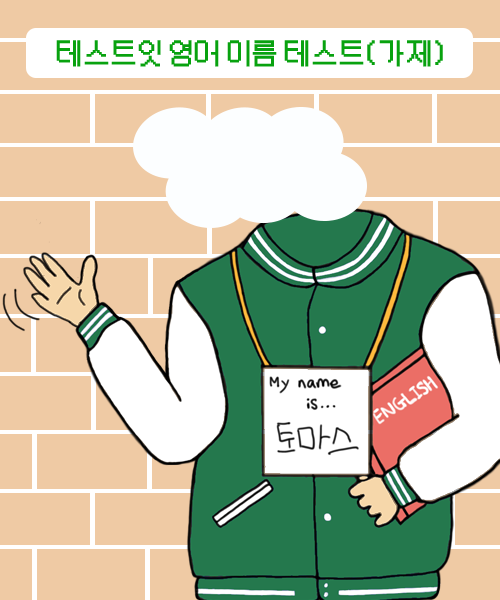
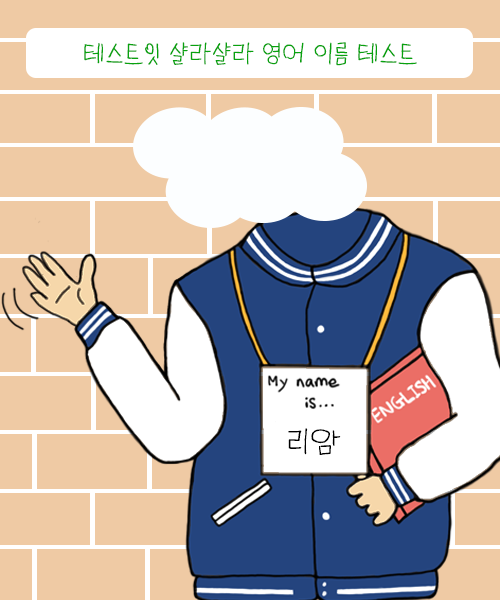
ㄴㅇㄹㄹ

diff --git a/test07.html b/test07.html
@@ -9,12 +9,12 @@
     <meta http-equiv="X-UA-Compatible" content="IE=edge">
     <meta name="viewport" content="width=device-width, initial-scale=1.0">
 
-    <title>테스트잇 샬라샬라 영어 이름 짓기 테스트</title>
-    <meta name="description" content="테스트잇 샬라샬라 영어 이름 짓기 테스트">
-<meta name="keywords" content="테스트잇,성격테스트,영어이름짓기테스트,샬라샬라영어이름테스트,테스트잇연애,테스트잇영어이름,늦기전에어학연수샬라샬라,연애테스트,연애mbti,연애성격테스트, 심리테스트, mbti테스트">
+    <title>테스트잇 샬라샬라 영어 이름 테스트</title>
+    <meta name="description" content="테스트잇 샬라샬라 영어 이름 테스트">
+<meta name="keywords" content="테스트잇,성격테스트,영어이름테스트,샬라샬라영어이름테스트,테스트잇연애,테스트잇영어이름,늦기전에어학연수샬라샬라,연애테스트,연애mbti,연애성격테스트, 심리테스트, mbti테스트">
     <meta property="og:type" content="website"> 
-    <meta property="og:title" content="테스트잇 영어 이름 짓기 테스트">
-    <meta property="og:description" content="테스트잇 영어 이름 짓기 테스트">
+    <meta property="og:title" content="테스트잇 영어 이름 테스트">
+    <meta property="og:description" content="테스트잇 영어 이름 테스트">
     <meta property="og:image" content="img_main07.png">
     <meta property="og:url" content="https://test-it.co.kr/test07">
 
@@ -39,7 +39,7 @@
   font-family: 'YoonChildfundkoreaManSeh', sans-serif;
   margin: 0;
   padding: 0;
-  background: linear-gradient(135deg, #3493ff, #63dbff);
+  background: linear-gradient(135deg, #ff84c3, #ff84c3);
   color: #333;
   display: flex;
   align-items: center;
@@ -487,17 +487,16 @@ input[type="date"], select {
   const userName = document.getElementById('user-name');
   const resultImg = document.getElementById('result-img');
 
-    const resultImages = [
-      'img_07_1.png',
-      'img_07_2.png'
-    ];
+  const resultImagesMale = Array.from({ length: 25 }, (_, i) => `img_07_${i + 1}.png`); // 01~25
+const resultImagesFemale = Array.from({ length: 25 }, (_, i) => `img_07_${i + 26}.png`); // 26~50
+const resultImagesOther = Array.from({ length: 50 }, (_, i) => `img_07_${i + 1}.png`); // 01~50
+
 
     startBtn.addEventListener('click', () => {
     mainPage.style.display = 'none'; // 첫 화면 숨김
     namePage.style.display = 'block'; // 이름 입력 화면 표시
   });
 
-  // "확인" 버튼 이벤트
   infoConfirmBtn.addEventListener('click', () => {
   const name = nameInput.value.trim();
   const year = yearSelect.value;
@@ -505,20 +504,21 @@ input[type="date"], select {
   const day = daySelect.value;
   const gender = genderSelect.value;
 
-    // 유효성 검사
-    if (!name) {
-      alert('이름을 입력해주세요!');
-      return;
-    }
-    if (!year || !month || !day) {
-      alert('생년월일을 선택해주세요!');
-      return;
-    }
-    if (!gender) {
-      alert('성별을 선택해주세요!');
-      return;
-    }
-    // 생년월일 조합
+  // 유효성 검사
+  if (!name) {
+    alert('이름을 입력해주세요!');
+    return;
+  }
+  if (!year || !month || !day) {
+    alert('생년월일을 선택해주세요!');
+    return;
+  }
+  if (!gender) {
+    alert('성별을 선택해주세요!');
+    return;
+  }
+
+  // 생년월일 조합
   const birthdate = `${year}-${month}-${day}`;
 
   // 결과 화면에 표시할 텍스트 설정
@@ -533,11 +533,21 @@ input[type="date"], select {
     loadingPage.style.display = 'none'; // 로딩 화면 숨김
     resultPage.style.display = 'block'; // 결과 화면 표시
 
-    // 랜덤 이미지 선택
-    const randomImage = resultImages[Math.floor(Math.random() * resultImages.length)];
-    resultImg.src = randomImage;
+    let randomImage;
+
+    // 성별에 따라 랜덤 이미지를 선택
+    if (gender === 'male') {
+      randomImage = resultImagesMale[Math.floor(Math.random() * resultImagesMale.length)];
+    } else if (gender === 'female') {
+      randomImage = resultImagesFemale[Math.floor(Math.random() * resultImagesFemale.length)];
+    } else if (gender === 'other') {
+      randomImage = resultImagesOther[Math.floor(Math.random() * resultImagesOther.length)];
+    }
+
+    resultImg.src = randomImage; // 선택된 이미지를 결과 이미지로 설정
   }, 3000);
 });
+
 
 document.getElementById('save-btn').addEventListener('click', () => {
   const result = document.getElementById('result'); // 캡처할 영역
